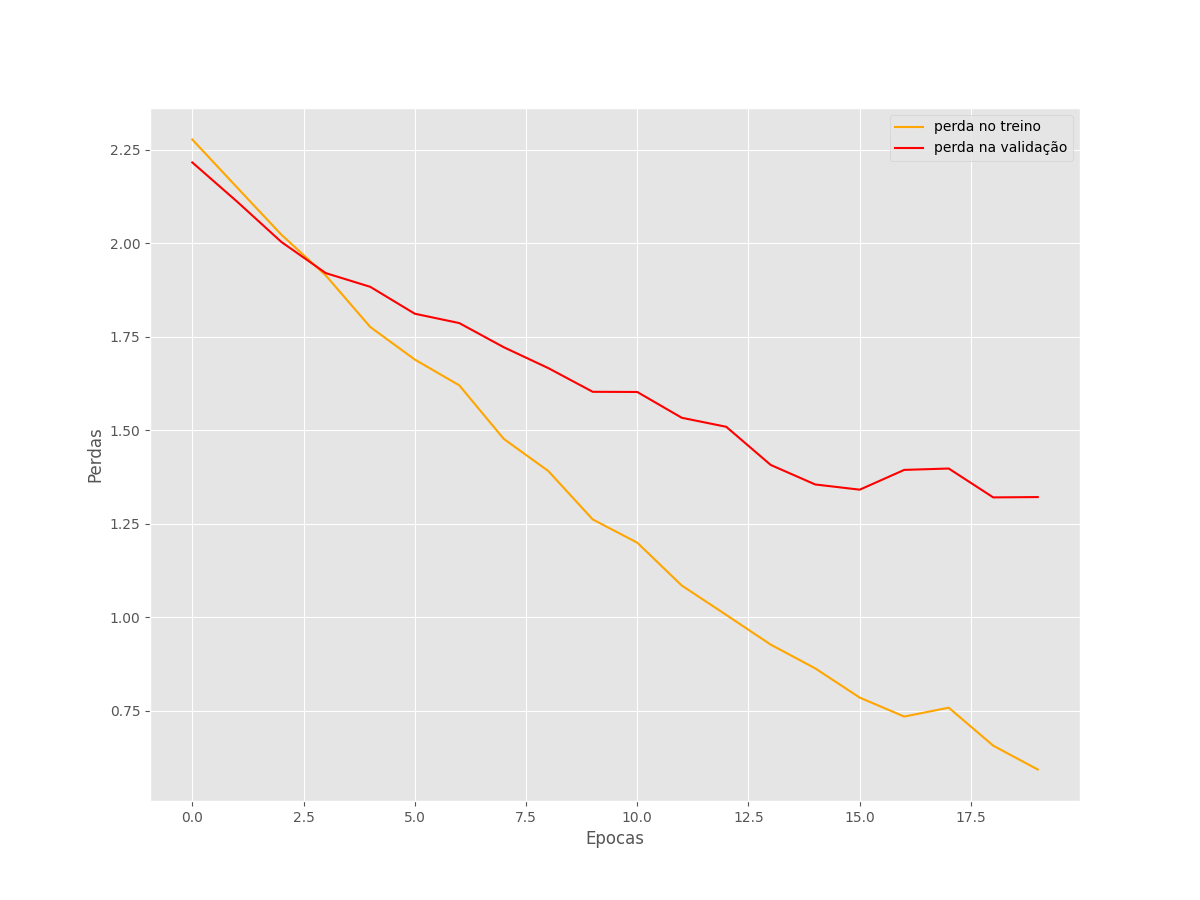
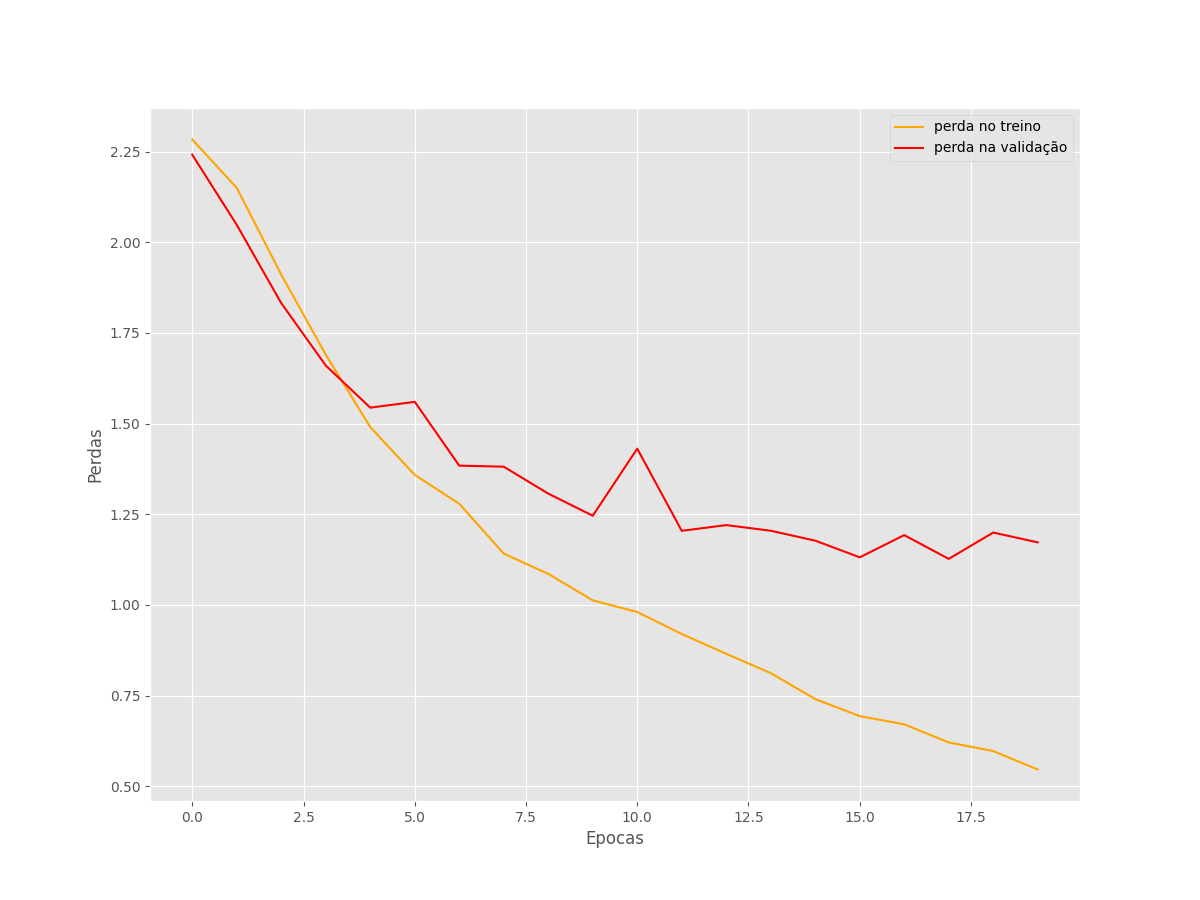
Teste com outras 2 camadas e mais neurônios na penúltima camada

diff --git a/main.py b/main.py
@@ -19,33 +19,35 @@ def build_model(num_classes : int):
         tf.keras.layers.MaxPooling2D(pool_size=(2, 2), strides=2),
         tf.keras.layers.Conv2D(filters=32, kernel_size=(3, 3), activation="relu"),
         tf.keras.layers.MaxPooling2D(pool_size=(2, 2), strides=2),
+        tf.keras.layers.Conv2D(filters=64, kernel_size=(3, 3), activation="relu"),
+        tf.keras.layers.MaxPooling2D(pool_size=(2, 2), strides=2),
         tf.keras.layers.Flatten(),
-        tf.keras.layers.Dense(64, activation="relu"),
+        tf.keras.layers.Dense(128, activation="relu"),
         tf.keras.layers.Dense(num_classes, activation="softmax")
     ])
     return model
 
 def save_plots(train_acc, valid_acc, train_loss, valid_loss):
     """
-    Função para salvar os plots de perda e precisão
+    Função para salvar os plots de perda e acuracia
     """
 
     # plots de precisão
     plt.figure(figsize=(12, 9))
     plt.plot(
         train_acc, color="green", linestyle='-',
-        label="precisão do treino"
+        label="acuracia do treino"
     )
 
     plt.plot(
         valid_acc, color="blue", linestyle='-', 
-        label="precisão da validação"
+        label="acuracia da validação"
         )
 
     plt.xlabel("Epocas")
-    plt.ylabel("Precisão")
+    plt.ylabel("Acuracia")
     plt.legend()
-    plt.savefig("precisao.png")
+    plt.savefig("acuracia.png")
 
     # Plot de perda
     plt.figure(figsize=(12, 9))
@@ -90,10 +92,5 @@ train_loss = history.history['loss']
 train_acc = history.history['accuracy']
 valid_loss = history.history['val_loss']
 valid_acc = history.history['val_accuracy']
-
-print(train_loss)
-print(train_acc)
-print(valid_loss)
-print(valid_acc)
 
 save_plots(train_acc, valid_acc, train_loss, valid_loss)
